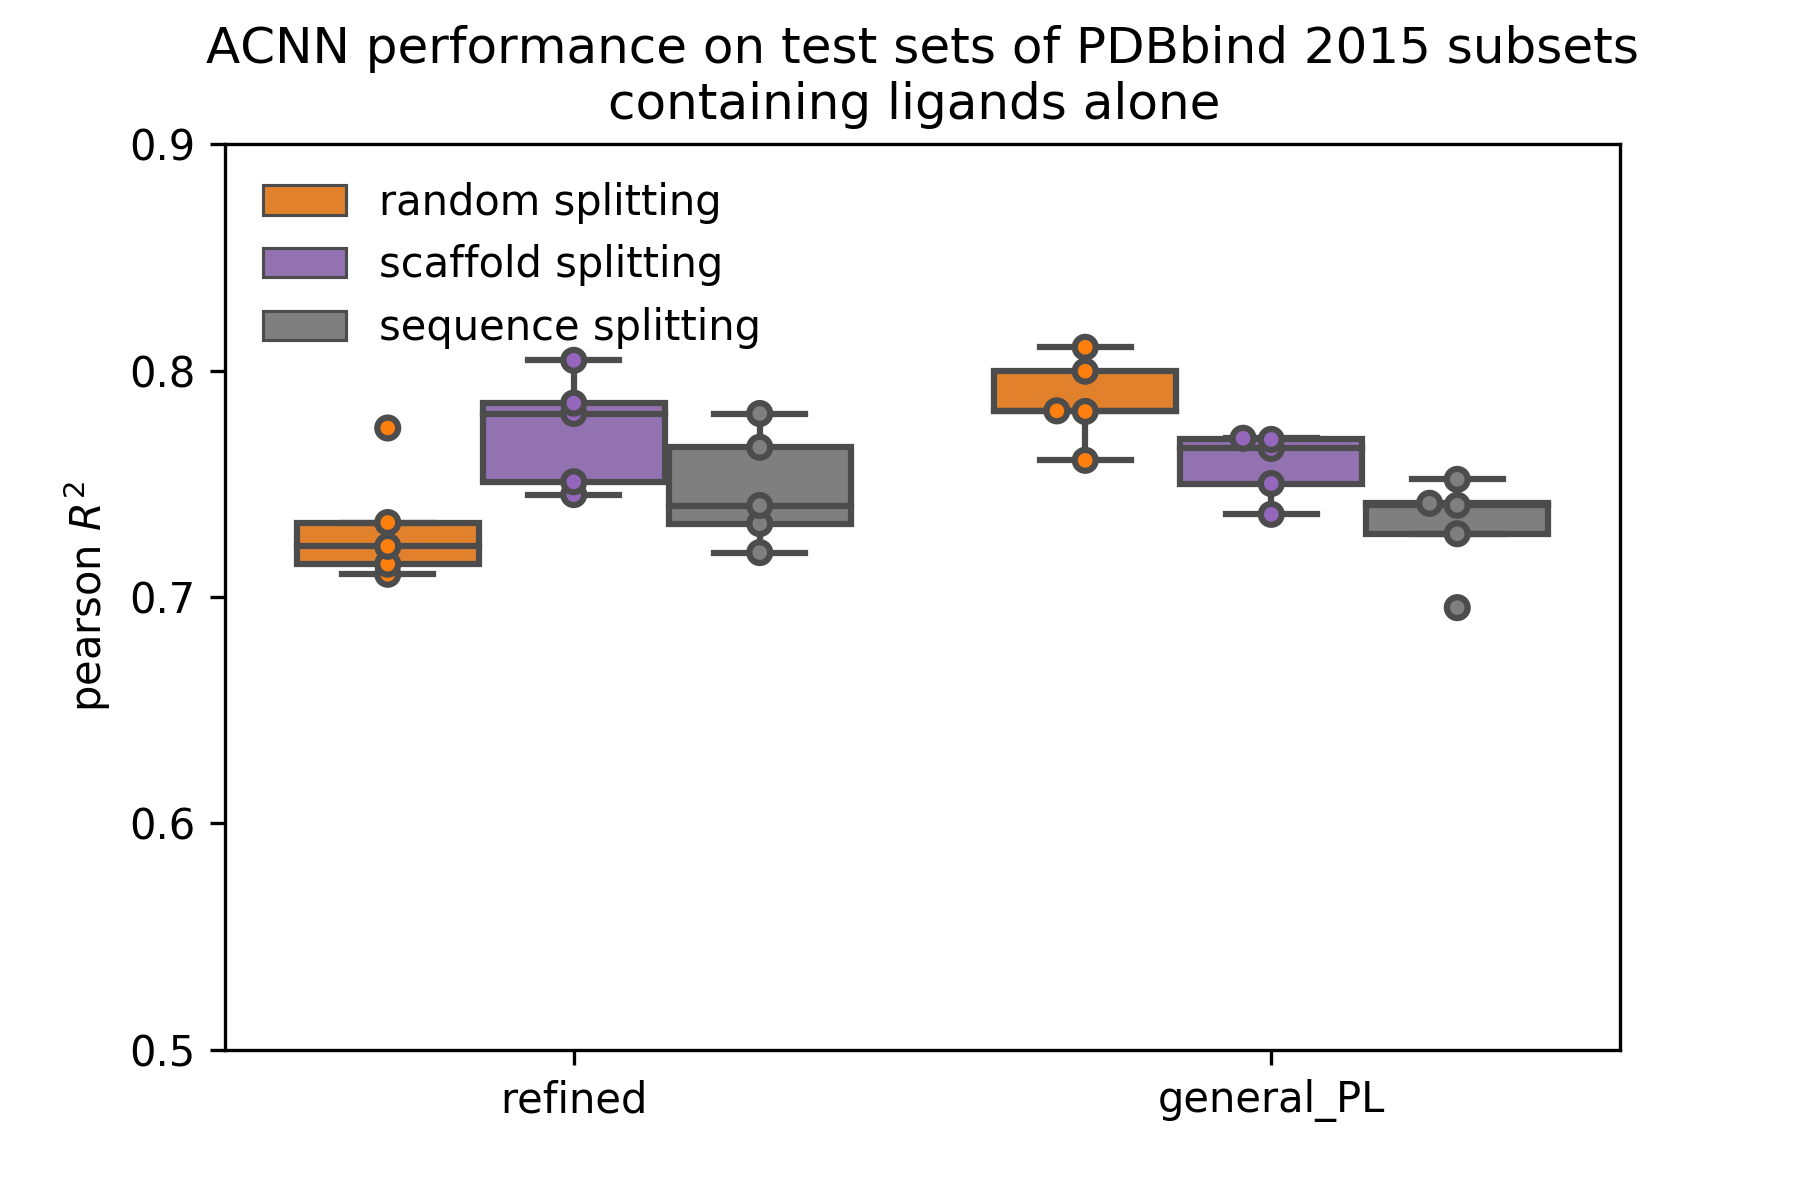
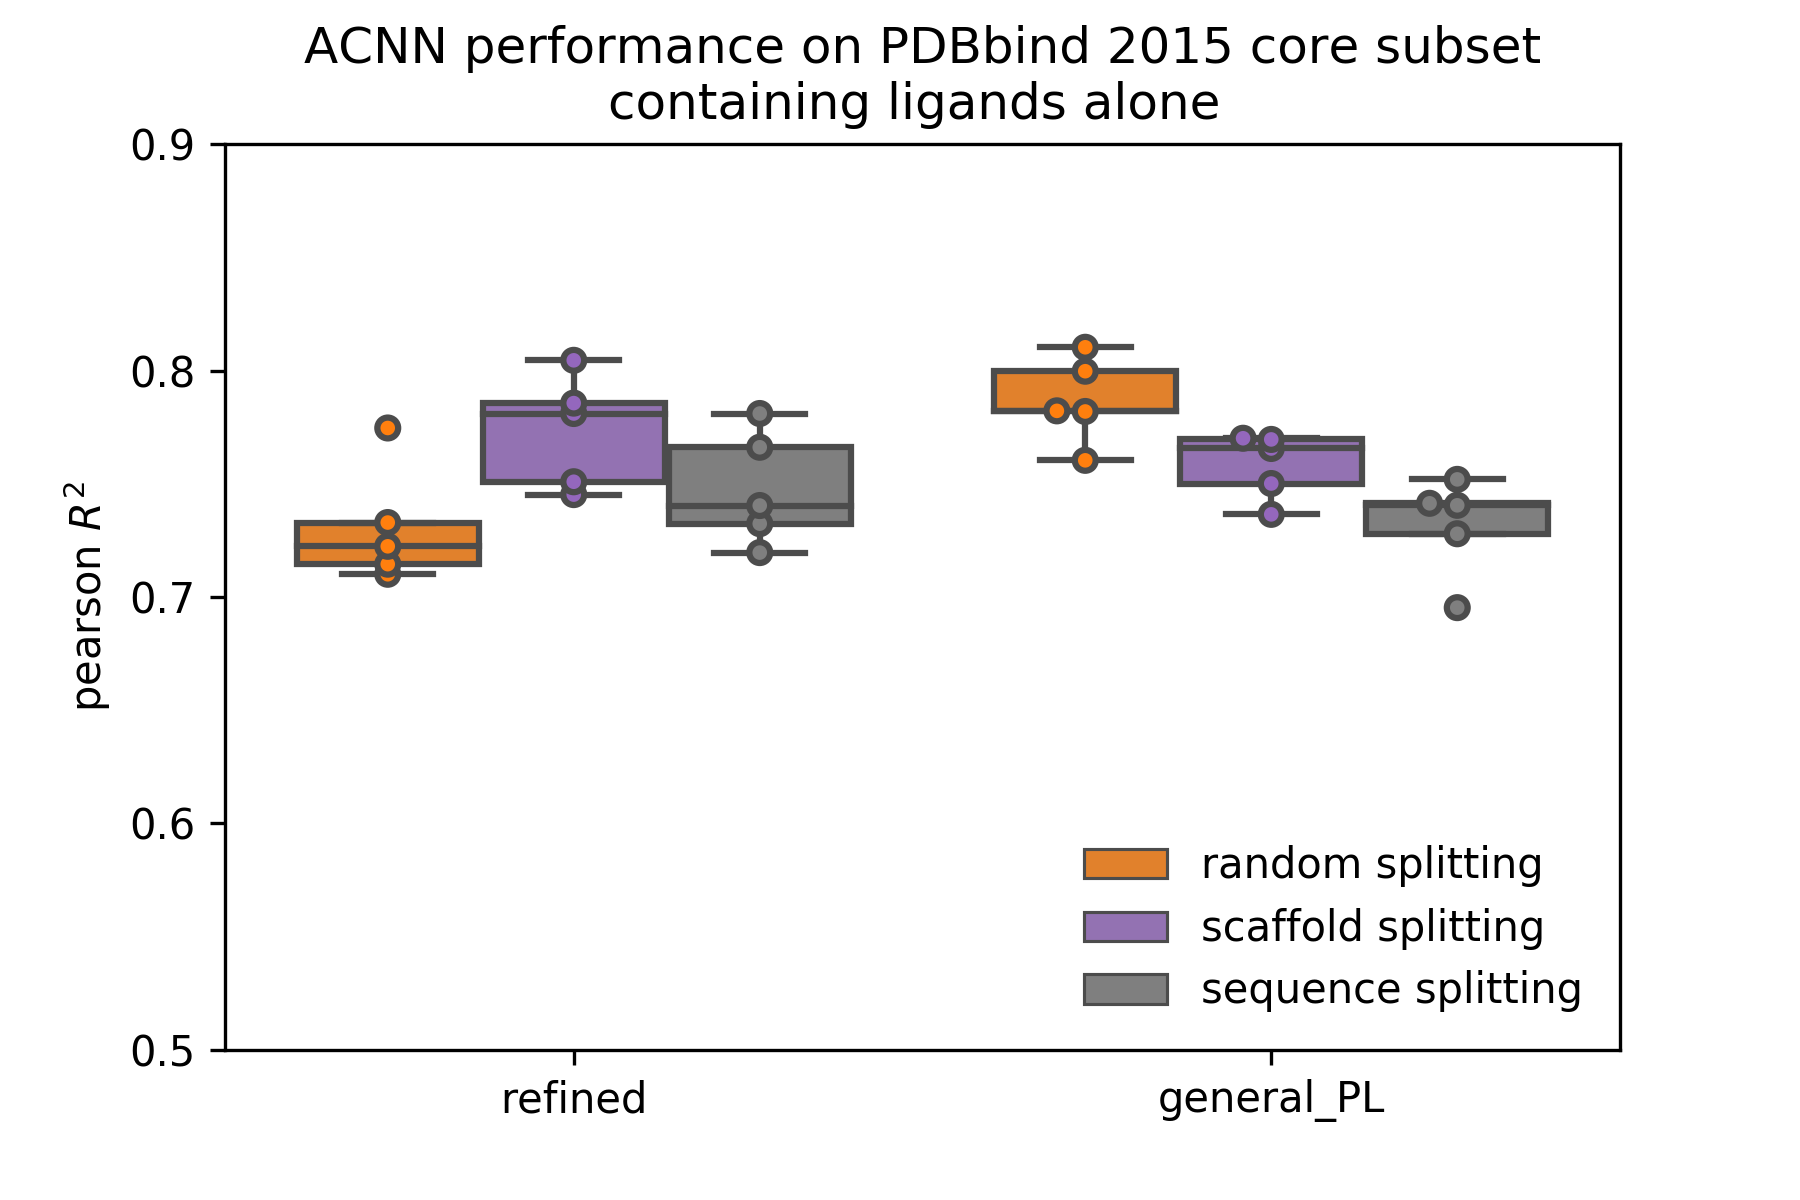
predict core 2015

Changed region(s): [[0.1244, 0.1542, 0.4356, 0.3083], [0.5911, 0.7092, 0.8711, 0.8633], [0.1244, 0.0, 0.9022, 0.0617]]

diff --git a/pdbbind/pred_core.figures/box.py b/pdbbind/pred_core.figures/box.py
@@ -86,12 +86,12 @@ for metric, metric_name in zip(metrics, metric_names):
         # l = ax.legend(handles[0:2], labels[0:2], bbox_to_anchor=(1.05, 1), loc=2, borderaxespad=0.)
         loc = 'best'
         if metric == 'pearson_r2_score':
-            loc = 'upper left'
+            loc = 'lower right'
         l = ax.legend(handles[0:3], cpn_names, frameon=False, loc=loc)
         ax.set_xlabel('')
         ax.set_ylabel(metric_name)
         ax.set_title(
-            f'ACNN performance on test sets of PDBbind {version} subsets\nwith {split_name}'
+            f'ACNN performance on PDBbind {version} core subset\nwith {split_name}'
         )
         ax.set_yticks(np.linspace(0, 1, 11))
         ax.set_ylim([0.5, 0.9])
@@ -145,12 +145,12 @@ for metric, metric_name in zip(metrics, metric_names):
         # l = ax.legend(handles[0:2], labels[0:2], bbox_to_anchor=(1.05, 1), loc=2, borderaxespad=0.)
         loc = 'best'
         if metric == 'pearson_r2_score':
-            loc = 'upper left'
+            loc = 'lower right'
         l = ax.legend(handles[0:3], split_names, frameon=False, loc=loc)
         ax.set_xlabel('')
         ax.set_ylabel(metric_name)
         ax.set_title(
-            f'ACNN performance on test sets of PDBbind {version} subsets\ncontaining {component_name} '
+            f'ACNN performance on PDBbind {version} core subset\ncontaining {component_name} '
         )
         ax.set_yticks(np.linspace(0, 1, 11))
         ax.set_ylim([0.5, 0.9])
